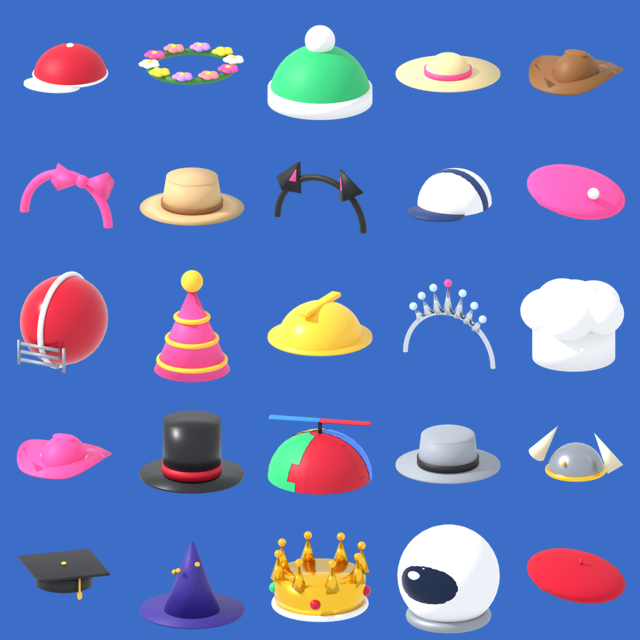
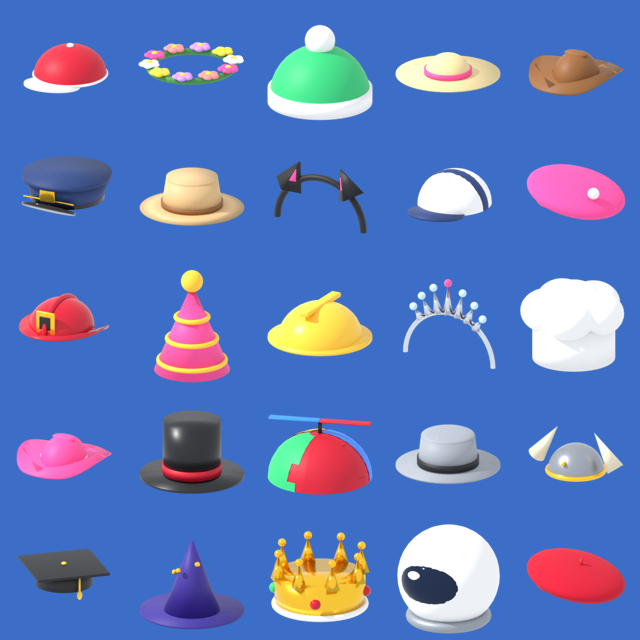
Hats: police cap and fireman helmet replace the football helmet and bow headband
Chef hat and astronaut helmet get a darker tile so the white shows up.

Claude-Session: https://claude.ai/code/session_017STqJTMpUnkXP36gRmKSGi

Changed region(s): [[0.0, 0.4062, 0.1875, 0.5938], [0.0312, 0.2188, 0.1875, 0.375]]

diff --git a/Cornhole/Web/index.html b/Cornhole/Web/index.html
@@ -2134,13 +2134,13 @@ function scheduleLivesAlert() {
 // rarest (crown, astronaut, beret) at Court 8. About half are feminine picks. Ids stay a0..a24 so saves carry over.
 const AVATARS = [
   ["ballcap", "#cfe3ff", 0], ["flowercrown", "#ffe0ee", 0], ["beanie", "#d8f2d8", 0], ["sunhat", "#fff2c8", 0],
-  ["cowboy", "#ffe6c8", 1], ["bowband", "#ffd6e6", 1], ["bucket", "#e6eef8", 1],
+  ["cowboy", "#ffe6c8", 1], ["police", "#dbe6ff", 1], ["bucket", "#e6eef8", 1],
   ["catears", "#f0e6ff", 2], ["trucker", "#dbe6ff", 2], ["pinkberet", "#ffe0ec", 2],
-  ["football", "#e0ecff", 3], ["party", "#fff0c8", 3], ["hardhat", "#e6eef8", 3],
-  ["tiara", "#ece6ff", 4], ["chef", "#e6f2ff", 4], ["cowgirl", "#fff0f6", 4],
+  ["fireman", "#ffe0d8", 3], ["party", "#fff0c8", 3], ["hardhat", "#e6eef8", 3],
+  ["tiara", "#ece6ff", 4], ["chef", "#4a6fa5", 4], ["cowgirl", "#fff0f6", 4],
   ["tophat", "#e8e8f0", 5], ["propeller", "#fff6d8", 5], ["fedora", "#e6eef8", 5],
   ["viking", "#e6f0f8", 6], ["grad", "#fff2c8", 6], ["wizard", "#e6e0ff", 6],
-  ["crown", "#fff4c0", 7], ["astronaut", "#d6e4ff", 7], ["beret", "#ffe0e0", 7],
+  ["crown", "#fff4c0", 7], ["astronaut", "#3a5a8a", 7], ["beret", "#ffe0e0", 7],
 ].map(([name, bg, court], i) => ({ id: "a" + i, name, bg, court }));
 const avatarById = id => AVATARS.find(a => a.id === id) || AVATARS[0];
 const avatarOpen = a => venueUnlocked(a.court);
@@ -4251,7 +4251,7 @@ if (!nativeBridge) {
   }
 }
 // Testing: every new build refills the cooler with ready-to-open cans, so there's always something to try.
-const BUILD_ID = "1794102310";
+const BUILD_ID = "1794102705";
 if (testing() && career.testBuild !== BUILD_ID) {
   career.testBuild = BUILD_ID;
   career.cans = ["gold", "purple", "platinum", "diamond"].map(id => ({ id, court: topCourt(), start: Date.now() - 2 * 86400000 }));

diff --git a/web/index.html b/web/index.html
@@ -2130,13 +2130,13 @@ function scheduleLivesAlert() {
 // rarest (crown, astronaut, beret) at Court 8. About half are feminine picks. Ids stay a0..a24 so saves carry over.
 const AVATARS = [
   ["ballcap", "#cfe3ff", 0], ["flowercrown", "#ffe0ee", 0], ["beanie", "#d8f2d8", 0], ["sunhat", "#fff2c8", 0],
-  ["cowboy", "#ffe6c8", 1], ["bowband", "#ffd6e6", 1], ["bucket", "#e6eef8", 1],
+  ["cowboy", "#ffe6c8", 1], ["police", "#dbe6ff", 1], ["bucket", "#e6eef8", 1],
   ["catears", "#f0e6ff", 2], ["trucker", "#dbe6ff", 2], ["pinkberet", "#ffe0ec", 2],
-  ["football", "#e0ecff", 3], ["party", "#fff0c8", 3], ["hardhat", "#e6eef8", 3],
-  ["tiara", "#ece6ff", 4], ["chef", "#e6f2ff", 4], ["cowgirl", "#fff0f6", 4],
+  ["fireman", "#ffe0d8", 3], ["party", "#fff0c8", 3], ["hardhat", "#e6eef8", 3],
+  ["tiara", "#ece6ff", 4], ["chef", "#4a6fa5", 4], ["cowgirl", "#fff0f6", 4],
   ["tophat", "#e8e8f0", 5], ["propeller", "#fff6d8", 5], ["fedora", "#e6eef8", 5],
   ["viking", "#e6f0f8", 6], ["grad", "#fff2c8", 6], ["wizard", "#e6e0ff", 6],
-  ["crown", "#fff4c0", 7], ["astronaut", "#d6e4ff", 7], ["beret", "#ffe0e0", 7],
+  ["crown", "#fff4c0", 7], ["astronaut", "#3a5a8a", 7], ["beret", "#ffe0e0", 7],
 ].map(([name, bg, court], i) => ({ id: "a" + i, name, bg, court }));
 const avatarById = id => AVATARS.find(a => a.id === id) || AVATARS[0];
 const avatarOpen = a => venueUnlocked(a.court);
@@ -4247,7 +4247,7 @@ if (!nativeBridge) {
   }
 }
 // Testing: every new build refills the cooler with ready-to-open cans, so there's always something to try.
-const BUILD_ID = "1794102310";
+const BUILD_ID = "1794102705";
 if (testing() && career.testBuild !== BUILD_ID) {
   career.testBuild = BUILD_ID;
   career.cans = ["gold", "purple", "platinum", "diamond"].map(id => ({ id, court: topCourt(), start: Date.now() - 2 * 86400000 }));

diff --git a/web/src/g1d_economy.js b/web/src/g1d_economy.js
@@ -188,13 +188,13 @@ function scheduleLivesAlert() {
 // rarest (crown, astronaut, beret) at Court 8. About half are feminine picks. Ids stay a0..a24 so saves carry over.
 const AVATARS = [
   ["ballcap", "#cfe3ff", 0], ["flowercrown", "#ffe0ee", 0], ["beanie", "#d8f2d8", 0], ["sunhat", "#fff2c8", 0],
-  ["cowboy", "#ffe6c8", 1], ["bowband", "#ffd6e6", 1], ["bucket", "#e6eef8", 1],
+  ["cowboy", "#ffe6c8", 1], ["police", "#dbe6ff", 1], ["bucket", "#e6eef8", 1],
   ["catears", "#f0e6ff", 2], ["trucker", "#dbe6ff", 2], ["pinkberet", "#ffe0ec", 2],
-  ["football", "#e0ecff", 3], ["party", "#fff0c8", 3], ["hardhat", "#e6eef8", 3],
-  ["tiara", "#ece6ff", 4], ["chef", "#e6f2ff", 4], ["cowgirl", "#fff0f6", 4],
+  ["fireman", "#ffe0d8", 3], ["party", "#fff0c8", 3], ["hardhat", "#e6eef8", 3],
+  ["tiara", "#ece6ff", 4], ["chef", "#4a6fa5", 4], ["cowgirl", "#fff0f6", 4],
   ["tophat", "#e8e8f0", 5], ["propeller", "#fff6d8", 5], ["fedora", "#e6eef8", 5],
   ["viking", "#e6f0f8", 6], ["grad", "#fff2c8", 6], ["wizard", "#e6e0ff", 6],
-  ["crown", "#fff4c0", 7], ["astronaut", "#d6e4ff", 7], ["beret", "#ffe0e0", 7],
+  ["crown", "#fff4c0", 7], ["astronaut", "#3a5a8a", 7], ["beret", "#ffe0e0", 7],
 ].map(([name, bg, court], i) => ({ id: "a" + i, name, bg, court }));
 const avatarById = id => AVATARS.find(a => a.id === id) || AVATARS[0];
 const avatarOpen = a => venueUnlocked(a.court);

diff --git a/web/tools/blender/hats.py b/web/tools/blender/hats.py
@@ -214,7 +214,28 @@ def pinkberet():
     sphere((0.75, -0.5, 0.25), (0.14, 0.14, 0.14), WHITE, rough=0.1); render("pinkberet")
 
 
-HATS = [ball_cap, flowercrown, beanie, sunhat, cowboy, bowband, bucket, catears, trucker, pinkberet, football, party, hardhat, tiara,
+def fireman():
+    setup(); sphere((0, 0.1, 0.05), (0.95, 1.05, 0.85), RED, half=True, rough=0.3)
+    bpy.ops.mesh.primitive_cylinder_add(vertices=64, radius=1.0, depth=0.06, location=(0, 0.25, 0.08)); br = bpy.context.active_object; br.scale = (1.25, 1.55, 1)
+    bpy.ops.object.transform_apply(scale=True)
+    for v in br.data.vertices: v.co.z -= 0.35 * max(0.0, v.co.y - 0.4) ** 2  # the long brim slopes down at the back
+    fin(br, RED, 0.3)
+    bpy.ops.mesh.primitive_torus_add(major_radius=0.86, minor_radius=0.09, location=(0, 0.1, 0.05), rotation=(0, math.radians(90), 0), major_segments=48, minor_segments=12)
+    rg = bpy.context.active_object; bm = bmesh.new(); bm.from_mesh(rg.data)
+    bmesh.ops.delete(bm, geom=[v for v in bm.verts if v.co.x > 0.02], context="VERTS"); bm.to_mesh(rg.data); bm.free()  # keep only the arch over the top
+    rg.scale = (1, 1.22, 1); fin(rg, RED, 0.3)  # the ridge front to back
+    box((0, -0.88, 0.45), (0.62, 0.08, 0.7), GOLD, bevel=0.12, rough=0.25, metal=0.8)  # front shield
+    box((0, -0.93, 0.45), (0.36, 0.04, 0.4), BLACK, bevel=0.05); render("fireman")
+def police():
+    setup(); cyl((0, 0, 0.32), 0.9, 0.55, NAVY, r2=1.05, rough=0.6)  # the crown flares out to the top
+    s = cyl((0, -0.02, 0.62), 1.1, 0.12, NAVY, rough=0.6); s.scale = (1.0, 1.04, 1)
+    cyl((0, 0, 0.12), 0.92, 0.2, BLACK, rough=0.3)  # band
+    b = cyl((0, -0.95, 0.02), 0.7, 0.06, BLACK, rot=(math.radians(-28), 0, 0), rough=0.12); b.scale = (1.0, 0.8, 1)  # glossy peak
+    box((0, -1.02, 0.44), (0.42, 0.08, 0.46), GOLD, bevel=0.16, metal=0.85, rough=0.25)  # badge
+    cyl((0, -0.96, 0.24), 0.02, 1.4, GOLD, rot=(0, math.radians(90), 0), metal=0.85)  # gold cord above the peak
+    render("police")
+
+HATS = [ball_cap, flowercrown, beanie, sunhat, cowboy, police, bucket, catears, trucker, pinkberet, fireman, party, hardhat, tiara,
         chef, cowgirl, tophat, propeller, fedora, viking, grad, wizard, crown, astronaut, beret]
 only = sys.argv[sys.argv.index("--") + 1:] if "--" in sys.argv else []
 for f in HATS:

diff --git a/README.md b/README.md
@@ -14,7 +14,7 @@ The name and tagline are set in `web/src/game.env`. `web/build.sh` copies them i
 - **Lives (🎟 raffle tickets):** up to 5. A match uses one, and a win gives it back. One refills every hour. Extra tickets come from the Store, from coins (at a steep price), from 15 bottle caps, or rarely from a can. The iPhone app can notify you when they're full.
 - **Bottle caps:** the premium currency (a red cap with a star). Use them to open a can now (1 cap for every 10 minutes left) or to buy a ticket. You start with 20, get some from cans (more often from rare ones) and 3 per 4-bagger, and can buy packs in the Store.
 - **Profile (tap your avatar):** three tabs.
-  - **Avatar:** 25 hats and helmets on their own (ball cap, flower crown, cowboy hat, tiara, football helmet, crown, astronaut helmet and more; about half feminine picks), made in Blender (`web/tools/blender/hats.py`). 4 to start, 3 more with each court you open through Court 8. Your Game Center picture is the default when you have one.
+  - **Avatar:** 25 hats and helmets on their own (ball cap, flower crown, cowboy hat, police hat, fireman helmet, tiara, crown, astronaut helmet and more; several feminine picks), made in Blender (`web/tools/blender/hats.py`). 4 to start, 3 more with each court you open through Court 8. Your Game Center picture is the default when you have one.
   - **Profile:** your handle and stats. New players are "guest-" plus 10 digits, or their Game Center name, until they choose a handle (3–16 letters, numbers, dots, dashes or underscores). Live opponents see your handle.
   - **Settings:** music and sound effects on/off and volume, haptics, and alerts.
 - **Computer opponents** and the CPU players in season groups use player-style handles (for example SliderSam22) and aren't labeled; How to play mentions that you play a computer opponent when no one is available.
